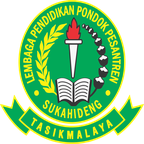
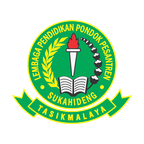
add PWA support

diff --git a/app/layout.tsx b/app/layout.tsx
@@ -4,14 +4,14 @@ import "./globals.css";
 import { Toaster } from "sonner";
 
 export const metadata: Metadata = {
-  title: "Sukahideng App",
+  title: "ESKAHADE",
   description: "Sistem Informasi Manajemen Terpadu Pondok Pesantren Sukahideng",
-  applicationName: "Sukahideng App",
+  applicationName: "ESKAHADE",
   manifest: "/manifest.json",
   appleWebApp: {
     capable: true,
     statusBarStyle: "black-translucent",
-    title: "Sukahideng",
+    title: "ESKAHADE",
   },
   formatDetection: { telephone: false },
   icons: {
@@ -54,7 +54,7 @@ export default function RootLayout({
         <meta name="mobile-web-app-capable" content="yes" />
         <meta name="apple-mobile-web-app-capable" content="yes" />
         <meta name="apple-mobile-web-app-status-bar-style" content="black-translucent" />
-        <meta name="apple-mobile-web-app-title" content="Sukahideng" />
+        <meta name="apple-mobile-web-app-title" content="ESKAHADE" />
         <link rel="apple-touch-icon" href="/apple-touch-icon.png" />
         <link rel="apple-touch-icon" sizes="152x152" href="/icon-152x152.png" />
         <link rel="apple-touch-icon" sizes="180x180" href="/apple-touch-icon.png" />

diff --git a/generate-icons.py b/generate-icons.py
@@ -1,0 +1,84 @@
+"""
+generate-icons.py — PWA Icon Generator untuk ESKAHADE
+======================================================
+Cara pakai:
+1. Taruh file ini di ROOT folder proyek (sejajar dengan folder 'public/')
+2. Pastikan logo baru sudah ada di public/logo.png
+3. Jalankan: python generate-icons.py
+
+Syarat logo.png:
+- Format PNG dengan background transparan (RGBA)
+- Ukuran minimal 512x512 px
+- Makin besar makin bagus (1024x1024 ideal)
+- Boleh tidak square, script ini akan handle otomatis
+
+Install dependency dulu kalau belum ada:
+  pip install Pillow
+"""
+
+from PIL import Image
+import os
+import sys
+
+# ── Cek file logo ada ──────────────────────────────────────────────────────
+LOGO_PATH = os.path.join("public", "logo.png")
+if not os.path.exists(LOGO_PATH):
+    print(f"ERROR: File '{LOGO_PATH}' tidak ditemukan!")
+    print("Pastikan script ini dijalankan dari ROOT folder proyek.")
+    sys.exit(1)
+
+print(f"Membaca logo dari: {LOGO_PATH}")
+img = Image.open(LOGO_PATH).convert("RGBA")
+w, h = img.size
+print(f"Ukuran asli: {w}x{h}")
+
+# ── Buat canvas square dengan padding 10% ────────────────────────────────
+max_dim = max(w, h)
+padding = int(max_dim * 0.10)
+canvas_size = max_dim + (padding * 2)
+
+canvas = Image.new("RGBA", (canvas_size, canvas_size), (0, 0, 0, 0))
+offset_x = (canvas_size - w) // 2
+offset_y = (canvas_size - h) // 2
+canvas.paste(img, (offset_x, offset_y), img)
+print(f"Canvas square: {canvas_size}x{canvas_size} (dengan padding {padding}px)\n")
+
+# ── Generate semua ukuran ─────────────────────────────────────────────────
+SIZES = [
+    (16,  "favicon-16x16.png"),
+    (32,  "favicon-32x32.png"),
+    (72,  "icon-72x72.png"),
+    (96,  "icon-96x96.png"),
+    (128, "icon-128x128.png"),
+    (144, "icon-144x144.png"),
+    (152, "icon-152x152.png"),
+    (180, "apple-touch-icon.png"),
+    (192, "icon-192x192.png"),
+    (384, "icon-384x384.png"),
+    (512, "icon-512x512.png"),
+]
+
+for size, name in SIZES:
+    out_path = os.path.join("public", name)
+    resized = canvas.resize((size, size), Image.LANCZOS)
+
+    if size <= 32:
+        # Favicon: pakai background putih supaya tidak transparan di browser
+        bg = Image.new("RGB", (size, size), (255, 255, 255))
+        bg.paste(resized, mask=resized.split()[3])
+        bg.save(out_path, "PNG", optimize=True)
+    else:
+        resized.save(out_path, "PNG", optimize=True)
+
+    print(f"  ✓ {name} ({size}x{size})")
+
+# ── Buat favicon.ico ──────────────────────────────────────────────────────
+ico_path = os.path.join("public", "favicon.ico")
+ico_32 = canvas.resize((32, 32), Image.LANCZOS)
+bg = Image.new("RGBA", (32, 32), (255, 255, 255, 255))
+bg.paste(ico_32, mask=ico_32.split()[3])
+bg.save(ico_path, format="ICO", sizes=[(16, 16), (32, 32)])
+print(f"  ✓ favicon.ico\n")
+
+print("Selesai! Semua icon berhasil di-generate di folder public/")
+print("Sekarang commit & deploy seperti biasa.")
